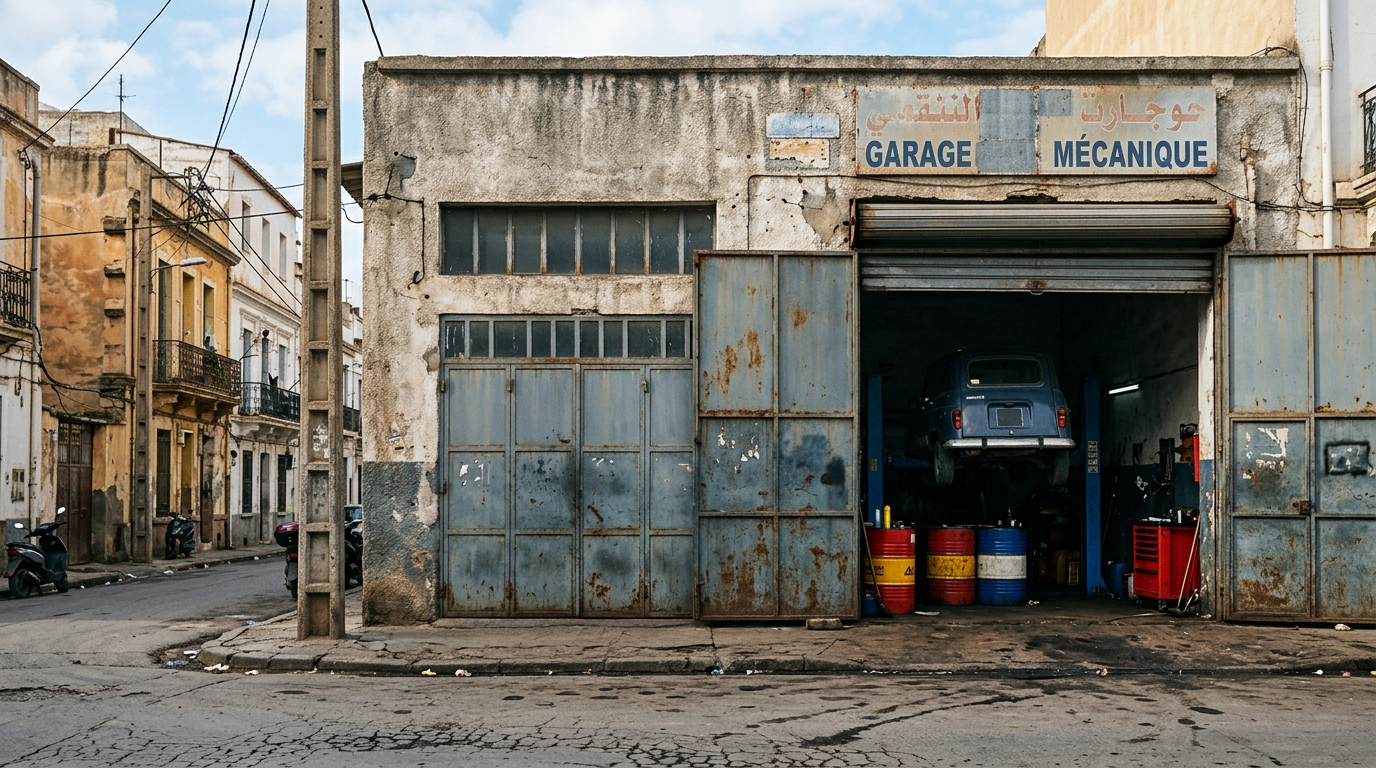
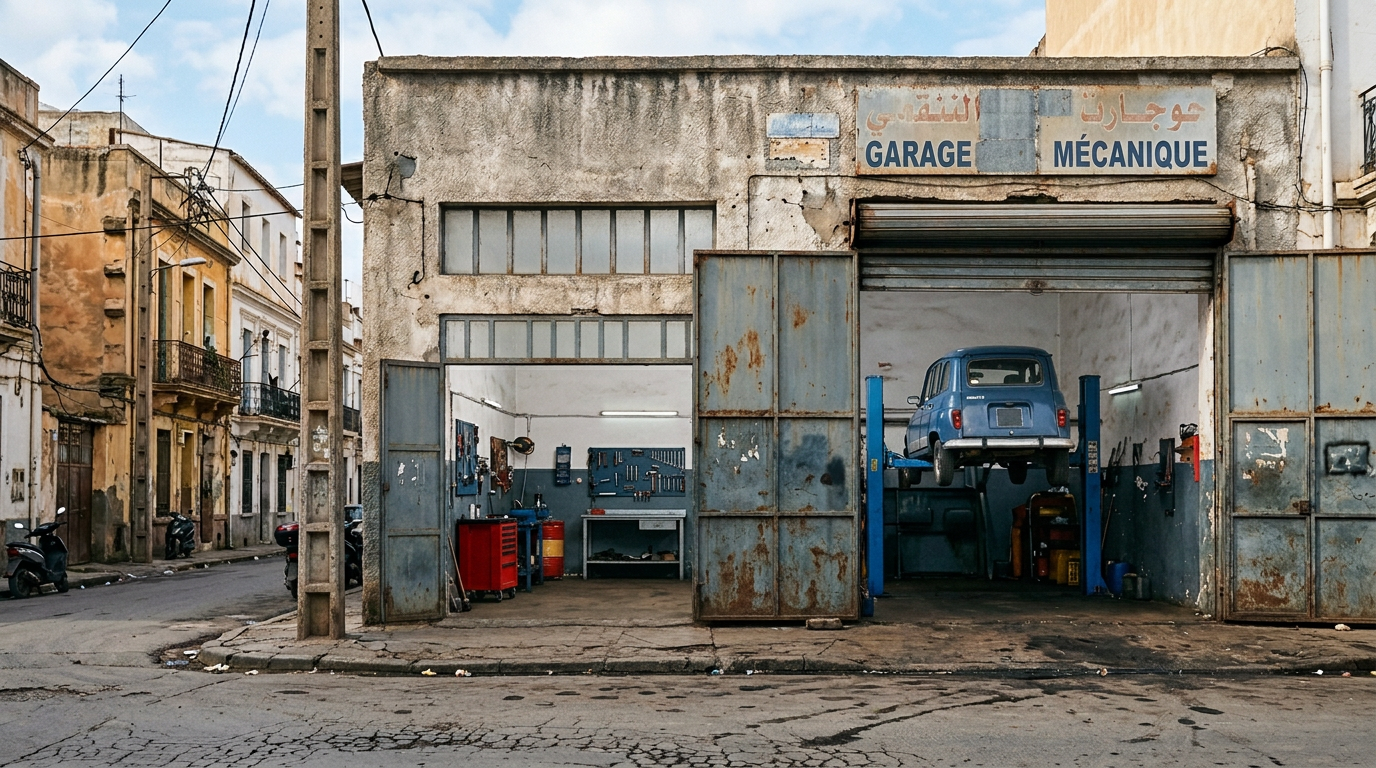
نظام برومبتات احترافي مترابط V2.1 + إعادة كاملة من الصفر: البوابتان مفتوحتان + داخل الورشة غير الأدوات والسيارة الزرقاء (رينو 4) + SC01_A (فوق الديباناج) وSC01_B (على الأرض) + SC02-07 — الأماكن والمواقع مقفلة في كل لقطة

diff --git a/HIKAYAT_AMINE_EP1/00_PROD_MEMO/HIKAYAT_AMINE_EP1_PROMPTS.md b/HIKAYAT_AMINE_EP1/00_PROD_MEMO/HIKAYAT_AMINE_EP1_PROMPTS.md
@@ -1,0 +1,158 @@
+# حكايات أمين — الحلقة 1 — نظام البرومبتات الاحترافي V2.1
+
+> **الفلسفة:** كل برومبت **كامل ومستقل بذاته** (يُنسخ كما هو)، لكنه مبني حرفياً من نفس الكتل الثابتة تحت — لهذا **الكراج والشارع والرصفة والضوء ومواقف السيارات لا تتغير أبداً بين اللقطات**. الذي يتغير فقط: الحركة + الشخصيات + زاوية الكاميرا المعلنة.
+> **القاعدة الذهبية:** كل برومبت مشهد = `[STYLE]` ثم `[GARAGE]` ثم `[STAGING]` ثم `ACTION` المشهد، مع إرفاق صور المراجع المذكورة.
+
+---
+
+## الكتلة [STYLE] — الأسلوب (ثابتة في كل برومبت)
+```
+Photorealistic cinematic film still from a real Algerian TV drama, live-action look, 16:9 landscape. Natural morning light, realistic skin texture, realistic hands and anatomy. Characters always look at what they interact with, never at the camera. Vehicles at TRUE realistic scale and distance, never oversized. No text, no logos, no watermark, no extra people, no duplicated limbs, no 3D render look, no cartoon.
+```
+
+## الكتلة [GARAGE] — المرجع الرئيسي للكراج (مقفلة — كلمة بكلمة في كل لقطة)
+```
+THE GARAGE — locked geography, identical in every single shot: an old worn concrete building on a street corner in a working-class Algerian neighborhood. The main facade has TWO adjacent huge bays, BOTH WIDE OPEN — their rusty blue-grey metal doors fully raised, both interiors fully visible. Inside the two bays there is ONLY mechanic tools and equipment — a red tool cabinet, a workbench, wall-mounted tools — and ONE blue vintage Renault 4 raised on a blue two-post hydraulic lift in the right bay. No other cars, no barrels, no clutter. Above the left bay runs a row of rectangular glass transom windows. A tall concrete utility pole stands exactly at the LEFT corner of the building, where the street branches toward the background left between old houses with faded light-yellow and white paint and electric wires crossing the sky. In front of the garage: a cracked asphalt apron with dark oil stains. Morning sunlight comes from the street side, identical in every shot. Never mirror the building, never change the street layout, never add or remove bays.
+```
+
+## الكتلة [STAGING] — المواقع المقفلة (استمرارية بين كل اللقطات)
+```
+STAGING — locked across all shots: the orange flatbed tow truck always parks on the STREET at the LEFT, beside the concrete utility pole. The customer's black luxury sedan always parks on the cracked asphalt apron DIRECTLY IN FRONT OF THE RIGHT OPEN BAY, nose pointing LEFT, driver side toward the camera. The slate-grey Dacia Sandero Stepway later parks at this exact same apron spot, nose LEFT. The garage, the street, the light and the parking positions NEVER change between shots — only the action and the announced camera angle change.
+```
+
+## صور المراجع المرفقة عند التوليد
+| المرجع | الملف |
+|---|---|
+| الكراج الخارجي | `REF_GARAGE_EXTERIOR.png` |
+| الشخصيات | `REF_CUSTOMER_A / REF_CUSTOMER_B / HAJ_FRONT / AMINE_FRONT` |
+| السيارات | `REF_MERCEDES / REF_DACIA_STEPWAY / REF_TOW_TRUCK` |
+
+**قواعد الألواح:** أبيض أمام / أصفر خلف — مرسيدس `73905 122 16` • داسيا `58214 123 16` — وإلا اتركها فارغة. • الزبون أ **بلا هاتف إطلاقاً** • أمين بـ**القماشة الحمراء** في الجيب الخلفي.
+
+---
+
+# أولاً — برومبتات مراجع الكراج
+
+## REF_GARAGE_EXTERIOR.png — الواجهة الرئيسية (الأم)
+```
+Photorealistic cinematic film still from a real Algerian TV drama, live-action look, 16:9 landscape. Natural morning light, realistic skin texture. No text, no logos, no watermark, no people.
+
+THE GARAGE — locked geography: an old worn concrete building on a street corner in a working-class Algerian neighborhood. The main facade has TWO adjacent huge bays, BOTH WIDE OPEN — their rusty blue-grey metal doors fully raised, both interiors fully visible. Inside the two bays there is ONLY mechanic tools and equipment — a red tool cabinet, a workbench, wall-mounted tools — and ONE blue vintage Renault 4 raised on a blue two-post hydraulic lift in the right bay. No other cars, no barrels, no clutter. Above the left bay runs a row of rectangular glass transom windows. A tall concrete utility pole stands exactly at the LEFT corner of the building, where the street branches toward the background left between old houses with faded light-yellow and white paint and electric wires crossing the sky. In front of the garage: a cracked asphalt apron with dark oil stains. Morning sunlight comes from the street side.
+
+SHOT: main frontal view of the garage from across the street, camera at eye level — the whole facade with both open bays fully visible, the concrete pole at the left corner, the street branching left. The street is empty: no vehicles, no people.
+```
+
+## REF_GARAGE_EXT_CORNER.png — الزاوية الجانبية (من ناصية الشارع)
+```
+Photorealistic cinematic film still from a real Algerian TV drama, live-action look, 16:9 landscape. Natural morning light. No text, no logos, no watermark, no people.
+
+THE GARAGE — locked geography: (same [GARAGE] block above, word for word).
+
+SHOT: looking from the LEFT street corner towards the right — the tall concrete utility pole in the immediate left foreground, the open LEFT bay closest to the camera with its row of rectangular transom windows above it, the open RIGHT bay just past it with the blue Renault 4 on the lift inside. The street is empty.
+```
+
+---
+
+# ثانياً — برومبتات لقطات الموجة 1 (كل برومبت كامل جاهز للنسخ)
+
+## SC01_A — الوصول: المرسيدس فوق الديباناج
+**Refs:** الكراج + الديباناج + المرسيدس + الزبون أ + الحاج + أمين
+```
+Photorealistic cinematic film still from a real Algerian TV drama, live-action look, 16:9 landscape. Natural morning light, realistic skin texture, realistic hands and anatomy. Characters always look at what they interact with, never at the camera. Vehicles at TRUE realistic scale and distance, never oversized. No text, no logos, no watermark, no extra people, no duplicated limbs, no 3D render look, no cartoon.
+
+THE GARAGE — locked geography, identical in every single shot: an old worn concrete building on a street corner in a working-class Algerian neighborhood. The main facade has TWO adjacent huge bays, BOTH WIDE OPEN — their rusty blue-grey metal doors fully raised, both interiors fully visible. Inside the two bays there is ONLY mechanic tools and equipment — a red tool cabinet, a workbench, wall-mounted tools — and ONE blue vintage Renault 4 raised on a blue two-post hydraulic lift in the right bay. No other cars, no barrels, no clutter. Above the left bay runs a row of rectangular glass transom windows. A tall concrete utility pole stands exactly at the LEFT corner of the building, where the street branches toward the background left between old houses with faded light-yellow and white paint and electric wires crossing the sky. In front of the garage: a cracked asphalt apron with dark oil stains. Morning sunlight comes from the street side, identical in every shot. Never mirror the building, never change the street layout, never add or remove bays.
+
+STAGING — locked: the orange flatbed tow truck parks on the STREET at the LEFT, beside the concrete utility pole.
+
+ACTION — the arrival: the orange flatbed tow truck parked on the street at the LEFT beside the pole, loading ramp still raised, and the BLACK LUXURY SEDAN ON TOP OF THE FLATBED, strapped and fully visible from the side. CUSTOMER A (45, grey suit trousers, white shirt, tired face) stands at the edge of the street center-frame, facing the garage, NO phone anywhere, one hand gesturing mid-speech, worried but polite. HADJ RACHID (60s, grey beard, khaki work coat) steps out of the right open bay toward him, welcoming, one hand open towards the truck. AMINE (young mechanic, navy work overall, red rag in back pocket) stands small inside the bay beside the blue Renault 4 on the lift. Wide eye-level shot across the street.
+
+Use the uploaded reference images exactly: garage exterior (first), tow truck, black sedan, customer, Hadj, Amine.
+```
+
+## SC01_B — بعد النزول: المرسيدس على الأرض قدام الكراج
+**Refs:** الكراج + الديباناج + المرسيدس + الزبون أ + الحاج + أمين
+```
+[STYLE] + [GARAGE] (نفسهما حرفياً أعلاه)
+
+STAGING — locked: the orange flatbed tow truck stays on the STREET at the LEFT, beside the concrete utility pole, loading ramp now DOWN and the flatbed EMPTY.
+
+ACTION — the descent is done: the BLACK LUXURY SEDAN IS NOW ON THE GROUND on the cracked asphalt apron directly in front of the RIGHT open bay, nose pointing LEFT, driver side toward the camera — it has just rolled off the ramp. CUSTOMER A stands beside the car explaining his problem to Hadj with expressive hands, worried but polite, NO phone anywhere. HADJ RACHID listens close to him, welcoming, nodding. AMINE steps out of the right open bay toward the car. Medium-wide eye-level shot.
+
+Use the uploaded reference images exactly: garage exterior (first), tow truck, black sedan, customer, Hadj, Amine.
+```
+
+## SC02 — الفحص
+**Refs:** الكراج + المرسيدس + الزبون أ + أمين
+```
+[STYLE] + [GARAGE] (نفسهما حرفياً)
+
+STAGING — locked: no tow truck anymore (gone). The black sedan parks on the cracked asphalt apron DIRECTLY IN FRONT OF THE RIGHT OPEN BAY, nose pointing LEFT, driver side toward the camera.
+
+ACTION: the sedan with its HOOD OPEN. AMINE leans into the open engine bay, calm and focused. CUSTOMER A stands beside him, tense, hands clasped together, NO phone anywhere. The concrete pole and the left street visible at the frame edge. Medium-wide eye-level, both men from the knees up.
+
+Use the uploaded reference images exactly: garage exterior (first), black sedan, customer, Amine.
+```
+
+## SC03 — اكتشاف الفيزيبل
+**Refs:** الكراج + المرسيدس + أمين + الزبون أ
+```
+[STYLE] + [GARAGE] (نفسهما حرفياً)
+
+STAGING — locked: the sedan at its exact apron spot in front of the right open bay, nose LEFT, hood open.
+
+ACTION — medium close at the open engine bay: AMINE holds the black plastic FUSE BOX in one hand and, in his other hand, ONE small blackened burnt blade fuse held up clearly to show the customer, calm confident look. CUSTOMER A leans in beside him, his face caught BETWEEN laughter and tears — comic disbelief, one hand half covering his mouth. Both faces clearly visible at eye level, the garage facade soft in the background.
+
+Use the uploaded reference images exactly: garage exterior, black sedan, Amine, customer.
+```
+
+## SC04 — التجربة (الديمارور)
+**Refs:** الكراج + المرسيدس + الزبون أ + أمين
+```
+[STYLE] + [GARAGE] (نفسهما حرفياً)
+
+STAGING — locked: the sedan at its exact apron spot, nose LEFT, hood open, DRIVER DOOR OPEN, driver side toward the camera.
+
+ACTION: CUSTOMER A sits in the driver seat, one hand near the start button, face turned toward Amine, still tense. AMINE stands beside the open engine bay, fingertips just pressing a tiny new fuse into the fuse box, looking up at the customer with a confident nod. Medium-wide eye-level, both clearly visible.
+
+Use the uploaded reference images exactly: garage exterior, black sedan, customer, Amine.
+```
+
+## SC05 — الرزمة وورقة الـ2000 دج
+**Refs:** الكراج + المرسيدس + الزبون أ + أمين + الحاج
+```
+[STYLE] + [GARAGE] (نفسهما حرفياً)
+
+STAGING — locked: the sedan at its exact apron spot in front of the right open bay, hood now CLOSED.
+
+ACTION: HADJ RACHID stands with them, hands relaxed, a gentle proud smile. CUSTOMER A holds out a THICK bundle of Algerian dinar banknotes (colors visible, details completely unreadable) toward Amine with BOTH hands, insisting warmly. AMINE, one open palm raised in polite refusal, his other hand already holding ONE single banknote (one 2000-dinar note). Medium three-shot at eye level.
+
+Use the uploaded reference images exactly: garage exterior, black sedan, customer, Amine, Hadj.
+```
+
+## SC06 — الوداع
+**Refs:** الكراج + المرسيدس + الزبون أ + الحاج + أمين
+```
+[STYLE] + [GARAGE] (نفسهما حرفياً)
+
+STAGING — locked: the sedan at its exact apron spot, driver door open, driver side toward the camera.
+
+ACTION: CUSTOMER A stands beside his sedan's open driver door, one hand resting on the car roof, speaking toward the garage with a deeply moved, grateful smile. HADJ RACHID and AMINE stand together at the right open bay entrance behind him, warm faces. Medium shot of the customer, the two men clearly visible at the entrance.
+
+Use the uploaded reference images exactly: garage exterior, black sedan, customer, Hadj, Amine.
+```
+
+## SC07 — صباح اليوم الموالي: ستيبواي الزبون ب
+**Refs:** الكراج + الستيبواي + الزبون ب + أمين
+```
+[STYLE] + [GARAGE] (نفسهما حرفياً)
+
+STAGING — locked: the slate-grey Dacia Sandero Stepway parks at the EXACT SAME apron spot in front of the right open bay, nose pointing LEFT, Algerian plate 58214 123 16 (leave the plate blank if not exact), HOOD OPEN.
+
+ACTION — next morning: CUSTOMER B (30, grey-beige bomber jacket, jeans, white sports sneakers) stands with AMINE in front of the open engine bay, explaining his problem with expressive hands. Amine listens beside him, arms half-crossed, thoughtful, red rag in his back pocket. Medium-wide eye-level.
+
+Use the uploaded reference images exactly: garage exterior (first), slate-grey Stepway, customer B, Amine.
+```
+
+---
+
+**بناء الفيديو (Flow):** كل مشهد 10ث من الـkeyframe بتاعه • كاميرا مقفلة • Hard Cut • بلا موسيقى • SC01: يُحرَّك من SC01_A (السيارة تنزل من الديباناج) أو SC01_B حسب اختيارك في المونتاج.

diff --git a/HIKAYAT_AMINE_EP1/00_PROD_MEMO/HIKAYAT_AMINE_EP1_MEMO_V2.md b/HIKAYAT_AMINE_EP1/00_PROD_MEMO/HIKAYAT_AMINE_EP1_MEMO_V2.md
@@ -16,18 +16,14 @@
 
 **مراجع الشخصيات والسيارات (جاهزة ✅):** REF_CUSTOMER_A • REF_CUSTOMER_B • AMINE_FRONT/THREE_QUARTER • HAJ_FRONT/THREE_QUARTER • REF_MERCEDES • REF_DACIA_STEPWAY • REF_TOW_TRUCK • REF_GARAGE_EXTERIOR (واجهة أمامية مباشرة) • REF_WC_DOOR
 
-## جغرافيا الكراج المقفلة (Master Reference 90573 — Anchor ثابت لكل المشاهد الخارجية)
+## جغرافيا الكراج المقفلة (Master Reference — Anchor ثابت لكل المشاهد الخارجية)
 1. **الهندسة العامة:** مبنى خرساني قديم متهالك على **ناصية شارع** في حي جزائري شعبي • الواجهة الرئيسية فيها **بوابتان ضخمتان متجاورتان** • **عمود كهرباء خرساني** بالضبط عند الزاوية اليسرى حيث يتفرع الشارع نحو الخلفية يساراً
-2. **البوابة اليمنى (المفتوحة):** باب معدني ضخم أزرق/رمادي صدئ مفتوح على مصراعيه • ستارة معدنية (Rideau) ملفوفة جزئياً في الأعلى • الداخل: **رينو 4 كلاسيكية داكنة على رافعة هيدروليكية زرقاء** • تحتها براميل زيت (أصفر/أحمر/أزرق) • خزانة أدوات **حمراء** على اليمين
-3. **البوابة اليسرى (المغلقة):** باب معدني مزدوج مغلق تماماً بنفس اللون الأزرق/الرمادي الصدئ • **فوقه صف نوافذ زجاجية مستطيلة (Transom windows)** تميّزه عن البوابة اليمنى
-4. **المحيط:** أسفلت متصدع مليء ببقع الزيت السوداء • الشارع اليسري فيه منازل قديمة بطلاء باهت (أصفر فاتح/أبيض) + أسلاك كهرباء متقاطعة في السماء
+2. **البوابتان كلتاهما مفتوحتان دائماً:** البابان المعدنيان الأزرقان/الرماديان الصدئان مرفوعان بالكامل في كل لقطة
+3. **داخل البوابتين:** **غير الأدوات والمعدات والسيارة الزرقاء** (رينو 4 زرقاء على الرافعة الهيدروليكية الزرقاء في البوابة اليمنى) — لا سيارات أخرى، لا براميل، لا فوضى • فوق البوابة اليسرى صف نوافذ Transom مستطيلة
+4. **المحيط:** أسفلت متصدع ببقع زيت سوداء • الشارع اليسري فيه منازل قديمة بطلاء باهت (أصفر فاتح/أبيض) + أسلاك كهرباء متقاطعة • **ضوء صباحي من جهة الشارع في كل اللقطات**
 - **من الداخل (مراجع الجزء الثاني):** الورشة واسعة • **المكتب في العمق** عبر ممر جانبي • **باب الحمّام الأخضر** على الحائط الأيسر
-- **الزاوية الجانبية المعتمدة:** `REF_GARAGE_EXT_CORNER` من ناصية الشارع اليسرى (برومبت العميل الحرفي تحت)
-
-### برومبت الزاوية الجانبية (حرفياً من العميل)
-```
-Photorealistic cinematic shot of an old Algerian mechanic garage exterior. Angle: Looking from the LEFT street corner towards the right. In the immediate left foreground, a tall concrete utility pole. The garage facade shows TWO bays. The closest bay to the camera (the Left Bay) has large, closed, rusty blue-grey metal double doors with rectangular windows above them. Just past it to the right is the second bay (the Right Bay), which is wide OPEN, showing a dark vintage car raised on a hydraulic lift inside, with oil barrels underneath. The ground is cracked asphalt with oil stains. Morning sunlight hitting from behind the camera. 16:9 landscape, live-action style, highly detailed.
-```
+- **STAGING مقفل:** الديباناج دائماً في الشارع يساراً عند العمود • المرسيدس/الستيبواي دائماً على الرصفة قدام البوابة اليمنى المفتوحة، المقدمة نحو اليسار، جهة السائق نحو الكاميرا • الشارع والضوء والمواقع لا يتغيرون بين اللقطات — فقط الحركة والكاميرا
+- **SC01 لقطتان:** `SC01_A` (الوصول — المرسيدس فوق الديباناج) + `SC01_B` (بعد النزول — على الأرض قدام الكراج)
 
 ## الكتل المشتركة (تُلصق في كل برومبت)
 
@@ -38,7 +34,7 @@ Photorealistic cinematic film still, like a real Algerian TV drama, live-action 
 
 **[EXT]:**
 ```
-Exact garage exterior of REF_GARAGE_EXTERIOR (Master Reference 90573, LOCKED design): an old worn CONCRETE building on a street corner in a working-class Algerian neighborhood. The main facade has TWO adjacent bays: the RIGHT bay wide OPEN — huge rusty blue-grey metal door open with its roller shutter partially rolled up at the top, inside a dark vintage Renault 4 raised on a BLUE hydraulic lift with yellow, red and blue oil barrels underneath and a RED tool cabinet on the right — and the LEFT bay CLOSED — large rusty blue-grey double metal doors with a row of rectangular transom windows above them. A tall concrete utility pole stands exactly at the LEFT corner of the building where the street branches toward the background left between old faded light-yellow and white houses with crossing electric wires. Cracked asphalt with dark oil stains in front. Morning light from the street side. Do not mirror. NEVER remove the closed left door, NEVER change the street layout, NEVER resize cars.
+Exact garage exterior of REF_GARAGE_EXTERIOR (Master Reference, LOCKED design): an old worn CONCRETE building on a street corner in a working-class Algerian neighborhood. The main facade has TWO adjacent huge bays, BOTH WIDE OPEN — their rusty blue-grey metal doors fully raised, both interiors fully visible. Inside the two bays ONLY mechanic tools and equipment (a red tool cabinet, a workbench, wall-mounted tools) and ONE BLUE vintage Renault 4 raised on a blue two-post hydraulic lift in the right bay — no other cars, no barrels, no clutter. Above the left bay a row of rectangular glass transom windows. A tall concrete utility pole stands exactly at the LEFT corner of the building where the street branches toward the background left between old faded light-yellow and white houses with crossing electric wires. Cracked asphalt apron with dark oil stains in front. Morning sunlight from the street side. Do not mirror. NEVER close a bay, NEVER change the street layout, NEVER resize cars.
 ```
 
 **[WS-INT]:**

diff --git a/HIKAYAT_AMINE_EP1/README.md b/HIKAYAT_AMINE_EP1/README.md
@@ -14,5 +14,5 @@
 
 ## الحالة (18 أكتوبر)
 - ✅ المراجع كاملة (10)
-- ✅ موجة 1: SC01→SC07
+- ✅ موجة 1: SC01_A→SC07
 - ⏳ موجة 2: SC08→SC12 • موجة 3: SC13→SC19
